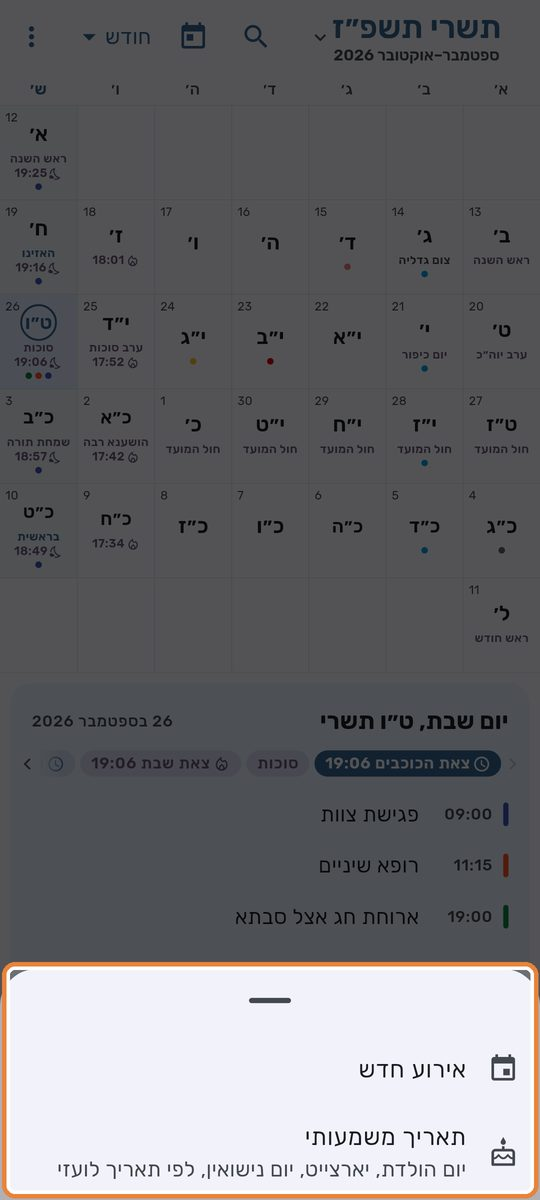
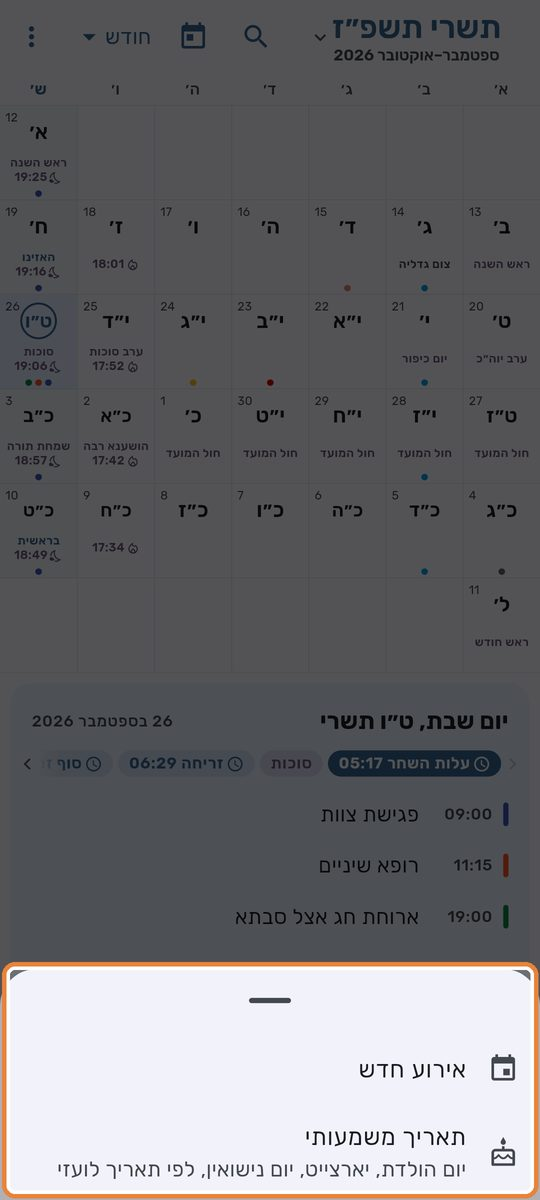
feat(month): the day's letters at a fixed height, dots at the bottom, label and Shabbat time in between [skip ci]
Claude-Session: https://claude.ai/code/session_017zUec374jeHgpuCg7de9BM

diff --git a/lib/features/calendar/presentation/widgets/day_cell.dart b/lib/features/calendar/presentation/widgets/day_cell.dart
@@ -10,6 +10,9 @@ import '../../../zmanim/presentation/shabbat_times.dart';
 /// still shows this many (the full list is in the agenda below the grid).
 const int _maxDots = 3;
 
+/// Space above the day's numeral, clear of the small corner number.
+double get _cellTopPad => spacingXs * 1.5;
+
 /// A single day cell in the month grid (owner-approved "variant B" design):
 /// thin grid lines, the Hebrew day in gematria centered, the Gregorian day
 /// small in the top-end corner, the day's main holiday/parsha [label] (M8)
@@ -114,40 +117,74 @@ class DayCell extends StatelessWidget {
                 ),
               ),
               LayoutBuilder(
-                builder: (BuildContext context, BoxConstraints constraints) =>
-                    Center(
-                      // Safety net for large system font scales / short
-                      // rows: scale the content down instead of overflowing.
+                builder: (BuildContext context, BoxConstraints constraints) {
+                  final Widget numeral = _DayNumeral(
+                    text: gregorianPrimary
+                        ? '$gregorianDay'
+                        : hebrewDayNumeral(hebrewDay),
+                    isToday: isToday,
+                    isSelected: isSelected,
+                  );
+                  final Widget dots = _EventDots(
+                    hebrewDay: hebrewDay,
+                    colors: eventColors,
+                  );
+                  final Widget middle = Column(
+                    mainAxisSize: MainAxisSize.min,
+                    children: <Widget>[
+                      if (label != null)
+                        // Fixed to the cell's width so a long name shrinks
+                        // instead of widening the cell.
+                        SizedBox(
+                          width: constraints.maxWidth - spacingXs,
+                          child: _DayLabel(label: label!),
+                        ),
+                      if (shabbatTime != null)
+                        ShabbatTimeLine(shabbatTime: shabbatTime!),
+                    ],
+                  );
+                  final double numeralHeight =
+                      rem(1.75) * textGrowth(context, bodyRem);
+                  final double fixedPart =
+                      _cellTopPad + numeralHeight + spacingXs * 2.5;
+                  if (constraints.maxHeight < fixedPart + spacingXs) {
+                    // A very short row: everything centered and scaled down
+                    // together, as a safety net.
+                    return Center(
                       child: FittedBox(
                         fit: BoxFit.scaleDown,
                         child: Column(
                           mainAxisSize: MainAxisSize.min,
-                          children: <Widget>[
-                            _DayNumeral(
-                              text: gregorianPrimary
-                                  ? '$gregorianDay'
-                                  : hebrewDayNumeral(hebrewDay),
-                              isToday: isToday,
-                              isSelected: isSelected,
-                            ),
-                            if (label != null)
-                              // Fixed to the cell's width so a long name
-                              // ellipsizes instead of shrinking the numeral.
-                              SizedBox(
-                                width: constraints.maxWidth - spacingXs,
-                                child: _DayLabel(label: label!),
-                              ),
-                            if (shabbatTime != null)
-                              ShabbatTimeLine(shabbatTime: shabbatTime!),
-                            SizedBox(height: spacingXs / 2),
-                            _EventDots(
-                              hebrewDay: hebrewDay,
-                              colors: eventColors,
-                            ),
-                          ],
+                          children: <Widget>[numeral, middle, dots],
                         ),
                       ),
+                    );
+                  }
+                  // Owner request 2026-10-15: the day's letters always at
+                  // the same height and the dots always at the bottom, so a
+                  // row reads level however much text a day has; the label
+                  // and Shabbat time take the space between, shrunk to fit.
+                  return Padding(
+                    padding: EdgeInsets.only(
+                      top: _cellTopPad,
+                      bottom: spacingXs / 2,
                     ),
+                    child: Column(
+                      children: <Widget>[
+                        numeral,
+                        Expanded(
+                          child: Center(
+                            child: FittedBox(
+                              fit: BoxFit.scaleDown,
+                              child: middle,
+                            ),
+                          ),
+                        ),
+                        dots,
+                      ],
+                    ),
+                  );
+                },
               ),
             ],
           ),

diff --git a/test/features/calendar/presentation/day_cell_layout_test.dart b/test/features/calendar/presentation/day_cell_layout_test.dart
@@ -1,0 +1,98 @@
+// Owner request 2026-10-15: in a busy month the day's letters jumped up and
+// down with how much text a day had. Now the letters sit at the same height
+// in every cell and the event dots at the bottom.
+
+import 'package:flutter/material.dart';
+import 'package:flutter_localizations/flutter_localizations.dart';
+import 'package:flutter_test/flutter_test.dart';
+import 'package:hebrew_calendar/domain/hebrew_date/jewish_day_info.dart';
+import 'package:hebrew_calendar/features/calendar/presentation/widgets/day_cell.dart';
+import 'package:hebrew_calendar/features/zmanim/presentation/shabbat_times.dart';
+import 'package:hebrew_calendar/l10n/app_localizations.dart';
+
+Widget _cell(
+  int day, {
+  JewishDayLabel? label,
+  ShabbatTime? shabbat,
+  List<Color> dots = const <Color>[],
+}) => Expanded(
+  child: DayCell(
+    hebrewDay: day,
+    gregorianDay: day + 10,
+    isToday: false,
+    isSelected: false,
+    isShabbat: false,
+    drawEndLine: true,
+    label: label,
+    shabbatTime: shabbat,
+    eventColors: dots,
+  ),
+);
+
+void main() {
+  for (final double height in <double>[72, 100]) {
+    testWidgets('letters level and dots at the bottom ($height high)', (
+      WidgetTester tester,
+    ) async {
+      await tester.pumpWidget(
+        MaterialApp(
+          locale: const Locale('he'),
+          supportedLocales: AppLocalizations.supportedLocales,
+          localizationsDelegates: const <LocalizationsDelegate<Object>>[
+            AppLocalizations.delegate,
+            GlobalMaterialLocalizations.delegate,
+            GlobalWidgetsLocalizations.delegate,
+            GlobalCupertinoLocalizations.delegate,
+          ],
+          home: Scaffold(
+            body: SizedBox(
+              width: 360,
+              height: height,
+              child: Row(
+                crossAxisAlignment: CrossAxisAlignment.stretch,
+                children: <Widget>[
+                  _cell(1),
+                  _cell(
+                    2,
+                    label: const JewishDayLabel(
+                      kind: JewishDayKind.roshChodesh,
+                      name: 'ראש חודש',
+                    ),
+                    dots: const <Color>[Colors.red, Colors.blue],
+                  ),
+                  _cell(
+                    3,
+                    label: const JewishDayLabel(
+                      kind: JewishDayKind.parsha,
+                      name: 'לך לך',
+                    ),
+                    shabbat: ShabbatTime(
+                      isCandleLighting: false,
+                      time: DateTime(2026, 10, 24, 18, 34),
+                    ),
+                    dots: const <Color>[Colors.green],
+                  ),
+                ],
+              ),
+            ),
+          ),
+        ),
+      );
+      final List<double> tops = <double>[
+        for (final String n in <String>['א׳', 'ב׳', 'ג׳'])
+          tester.getTopLeft(find.text(n)).dy,
+      ];
+      expect(tops[1], moreOrLessEquals(tops[0], epsilon: 0.5));
+      expect(tops[2], moreOrLessEquals(tops[0], epsilon: 0.5));
+      final double dots2 = tester
+          .getBottomLeft(find.byKey(const ValueKey<String>('event-dot-2')))
+          .dy;
+      final double dots3 = tester
+          .getBottomLeft(find.byKey(const ValueKey<String>('event-dot-3')))
+          .dy;
+      expect(dots3, moreOrLessEquals(dots2, epsilon: 0.5));
+      expect(dots2, greaterThan(height - 12));
+      expect(tester.takeException(), isNull);
+    });
+  }
+}

diff --git a/docs/PROGRESS.md b/docs/PROGRESS.md
@@ -5,6 +5,10 @@
 (שיתוף והעשרה) נדחה בהחלטת משתמש — ראה WISHLIST.md. (ראה אבני דרך
 ב-ARCHITECTURE.md §9)
 
+## 2026-10-15 — משבצת החודש: אותיות היום באותו גובה (סקיצה 58)
+
+- `DayCell`: אותיות היום (או המספר הלועזי) צמודות למעלה בגובה קבוע, הנקודות צמודות לתחתית, והחג/הפרשה וזמן השבת באמצע, מתכווצים לשטח שנשאר. לפני כן העמודה כולה הייתה ממורכזת והאותיות קפצו לפי כמות הטקסט (צילום מהמכשיר). שורה נמוכה מדי חוזרת לפריסה הממורכזת המוקטנת. 2 טסטים ב-`day_cell_layout_test.dart` (נכשלים על הפריסה הקודמת), 527 בסך הכל. תמונות המדריך צולמו מחדש.
+
 ## 2026-10-15 — גודל טקסט בהגדרות (סקיצה 57)
 
 - `text_size_provider.dart`: 100%-140%, נשמר במכשיר ונקרא לפני הפריים הראשון (`preloadTextSize`). `AppTextScaler` כופל את הגדלת הגופן של הטלפון (גם לא-לינארית) בבחירה, ב-`builder` של `MaterialApp`, כך שכל הטקסט גדל בלי לאבד מצב ניווט.
